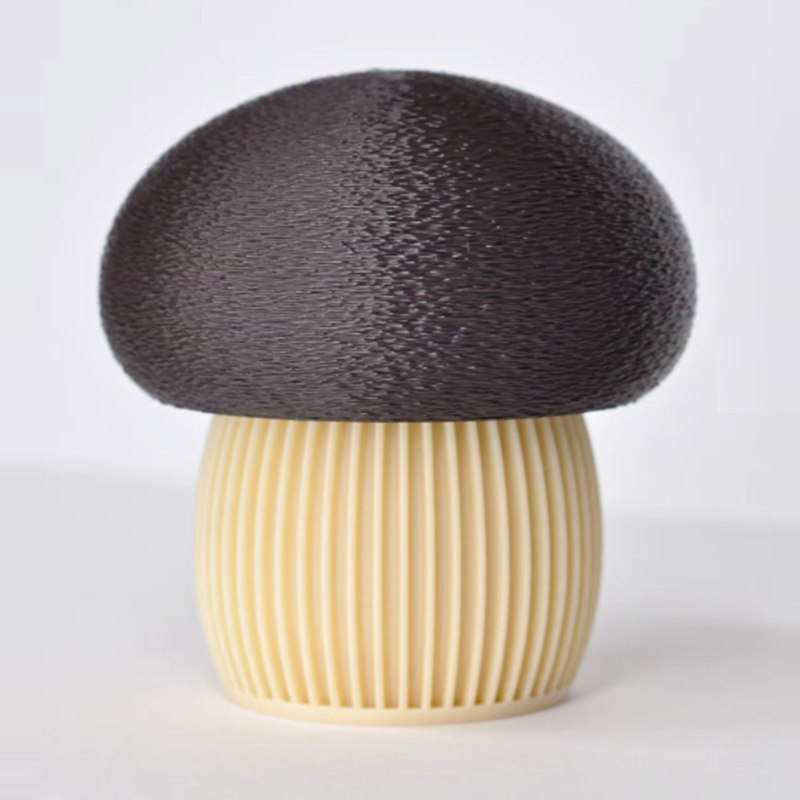
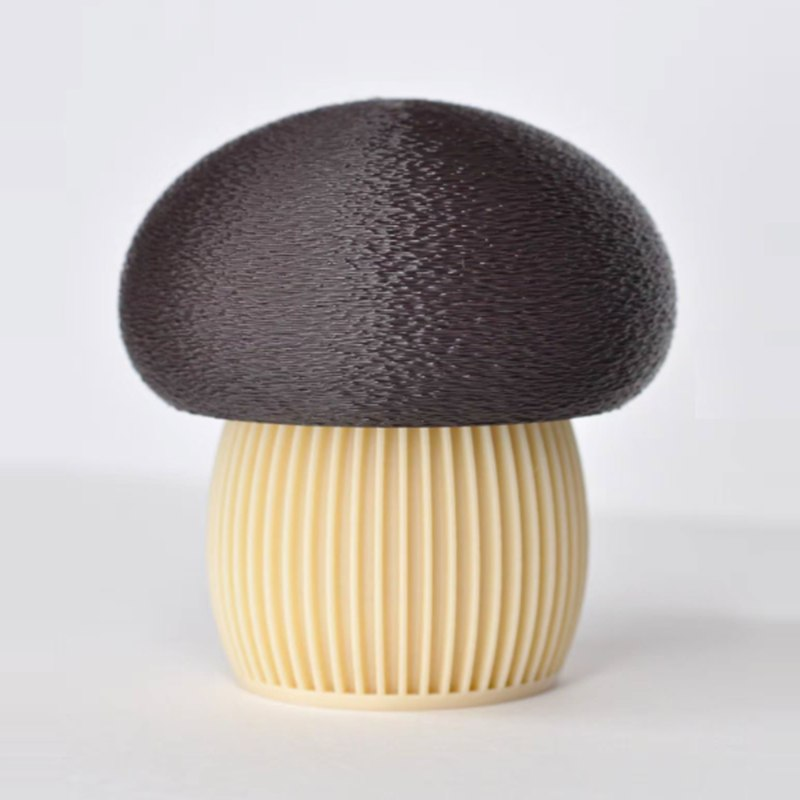
Úvod: nový text, lépe vycentrované fotky, úzká patička
- nový text pod nadpisem na úvodu
- fotky v kruhu znovu oříznuté, výrobky víc uprostřed
- patička v jednom řádku (na mobilu nižší)
- úpravy textů na stránkách O nás a Kontakt

Changed region(s): [[0.0938, 0.0625, 0.875, 0.9062], [0.625, 0.4375, 0.6562, 0.4688]]

diff --git a/js/app.js b/js/app.js
@@ -211,7 +211,7 @@
         <div class="container hero-inner">
           <div>
             <h1><span class="chrome-text">Originální výrobky</span><br /><span class="accent-text">vrstvu po vrstvě</span></h1>
-            <p>Dekorace, hračky a praktické pomocníky do domácnosti tiskneme s láskou na našich 3D tiskárnách. Vyberte si barvu a nechte si výrobek přizpůsobit.</p>
+            <p>Zvířátka, dekorace, květiny i pomocníky do domácnosti tiskneme z PLA, ručně dočišťujeme a některé i malujeme akvarelem. Vyberte si, co vám udělá radost.</p>
             <div class="hero-actions">
               <a href="#nabidka" class="btn btn-primary">Prohlédnout nabídku</a>
               <a href="#o-nas" class="btn btn-secondary">Kdo jsme</a>
@@ -635,11 +635,11 @@ Děkuji`;
     return `
       <div class="container page prose">
         <h1 class="chrome-text">O nás</h1>
-        <p>Jsme Klára a Filip Klaudy. Dlouho jsme přemýšleli, jak spojit naši vášeň pro moderní technologie a ruční práci. Výsledkem je Filara – naše srdcová záležitost.</p>
-        <p>Modely si sami nenavrhujeme, ale podporujeme autory nákupem licencí, to pravé kouzlo jim vdechujeme až u nás doma. Vyhledáváme pro vás ty nejzajímavější, které s maximální pečlivostí tiskneme, ručně malujeme, sestavujeme a ladíme do posledního detailu.</p>
+        <p>Jsme Klára a Filip Klaudy. Dlouho jsme přemýšleli, jak spojit naši vášeň pro moderní technologie a ruční práci. Výsledkem je FILARA – naše srdcová záležitost.</p>
+        <p>Modely si sami nenavrhujeme. Podporujeme autory koupí jejich licence. To pravé kouzlo jim ale vdechujeme až u nás doma. Vyrábíme pro vás ty nejzajímavější modely, které s maximální pečlivostí tiskneme, ručně malujeme, sestavujeme a ladíme do posledního detailu.</p>
         <h2>Jak pracujeme</h2>
         <ul>
-          <li>Tiskneme z PLA filamentu, ekologického materiálu vyrobeného z obnovitelných zdrojů, jako je kukuřičný škrob.</li>
+          <li>Tiskneme z PLA filamentu, materiálu vyrobeného z obnovitelných zdrojů, jako je kukuřičný škrob.</li>
           <li>Každý kus ručně dočistíme a zkontrolujeme.</li>
           <li>Některé modely dokreslujeme ručně akvarelem, a tak každý dostane svůj vlastní charakter.</li>
           <li>Výrobky, které máme skladem, lze osobně vyzvednout v Salonu Clair (Rýznerova 177/10, Únětice, 252 62).</li>
@@ -651,12 +651,11 @@ Děkuji`;
     return `
       <div class="container page prose">
         <h1 class="chrome-text">Kontakt</h1>
-        <p>Máte dotaz k objednávce nebo nápad na výrobek na zakázku? Ozvěte se nám, odpovídáme obvykle do 24 hodin.</p>
         <div class="card contact-grid">
           <div><small>E-mail</small><strong><a href="mailto:${esc(OBCHOD.email)}">${esc(OBCHOD.email)}</a></strong></div>
           <div><small>Telefon</small><strong>${esc(OBCHOD.telefon)}</strong></div>
           <div><small>Provozovatel</small><strong>${esc(OBCHOD.nazev)}</strong><br />${esc(OBCHOD.provozovatel)}<br />${esc(OBCHOD.adresa)}</div>
-          <div><small>Osobní odběr</small>Výrobky skladem lze vyzvednout v Salonu Clair<br />Rýznerova 177/10, Únětice, 252 62</div>
+          <div><small>Osobní odběr</small>Salon Clair<br />Rýznerova 177/10, Únětice, 252 62</div>
         </div>
       </div>`;
   }

diff --git a/css/styly.css b/css/styly.css
@@ -279,25 +279,26 @@ textarea {
   color: var(--muted);
 }
 
+/* Úzká patička: logo s textem a kontakty vedle sebe v jednom řádku */
 .footer-inner {
-  display: grid;
-  gap: 16px;
-  padding-top: 20px;
-  padding-bottom: 20px;
+  display: flex;
+  flex-wrap: wrap;
+  align-items: center;
+  justify-content: space-between;
+  gap: 8px 24px;
+  padding-top: 12px;
+  padding-bottom: 12px;
 }
 
-@media (min-width: 640px) {
-  .footer-inner {
-    grid-template-columns: 2fr 1fr;
-  }
+.footer-inner > div {
+  display: flex;
+  flex-wrap: wrap;
+  align-items: center;
+  gap: 4px 16px;
 }
 
 .footer p {
-  margin: 6px 0 0;
-}
-
-.footer-inner > div:last-child p {
-  margin: 0 0 4px;
+  margin: 0;
 }
 
 .footer-title {
@@ -312,7 +313,7 @@ textarea {
 .footer-copy {
   margin: 0;
   border-top: 1px solid var(--line);
-  padding: 8px 16px;
+  padding: 6px 16px;
   text-align: center;
   font-size: 12px;
   color: var(--subtle);
